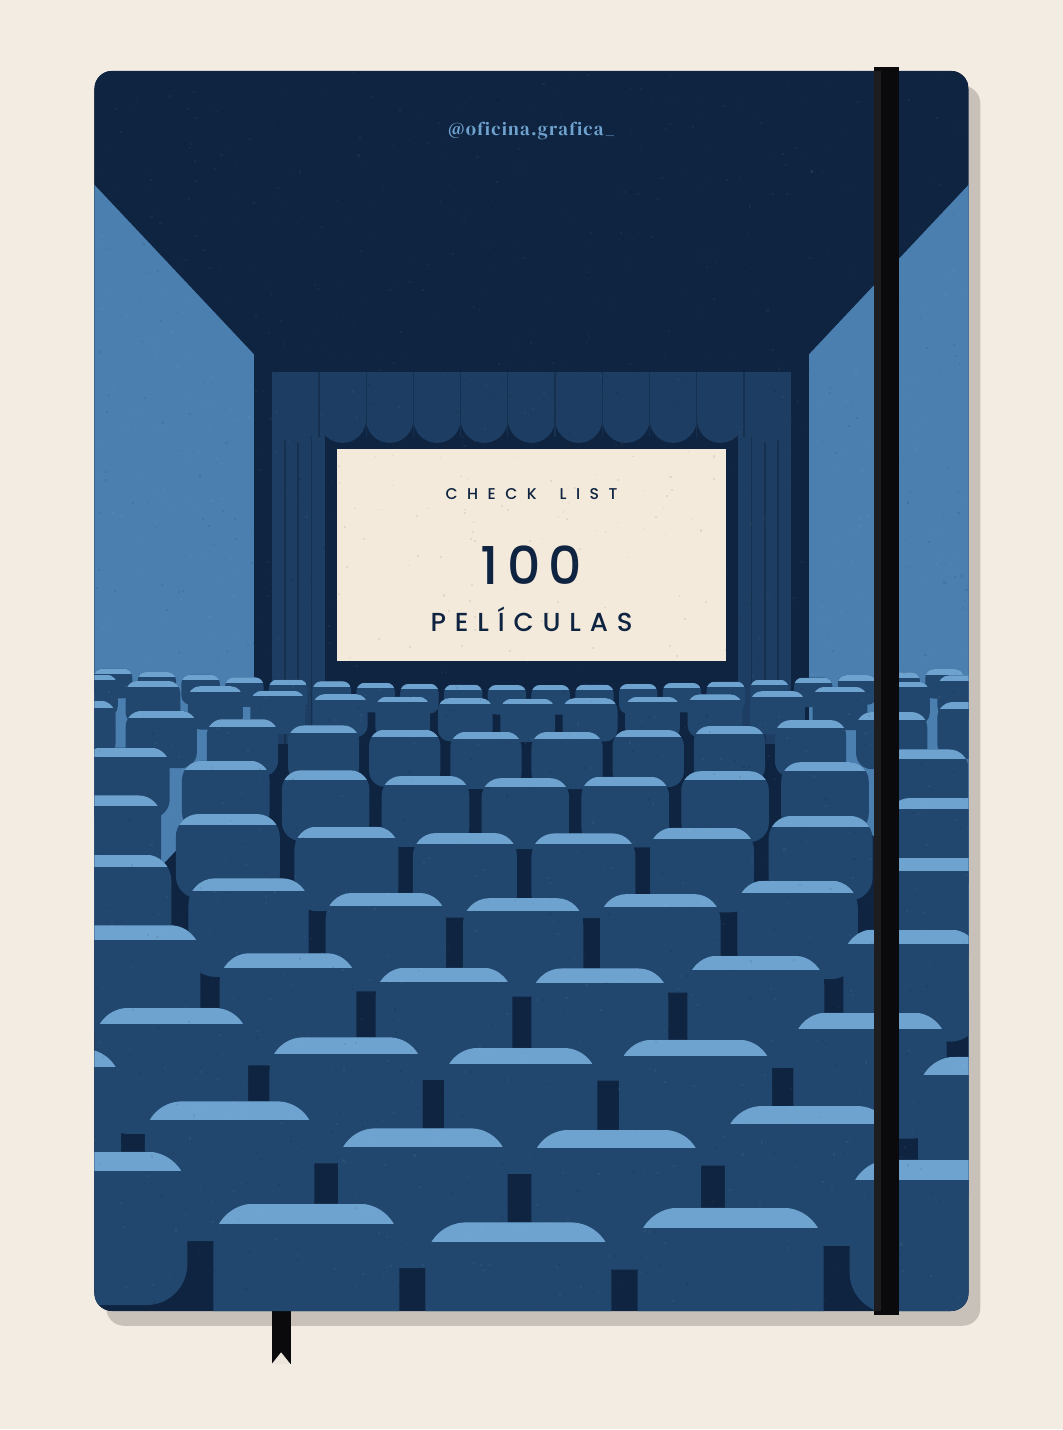
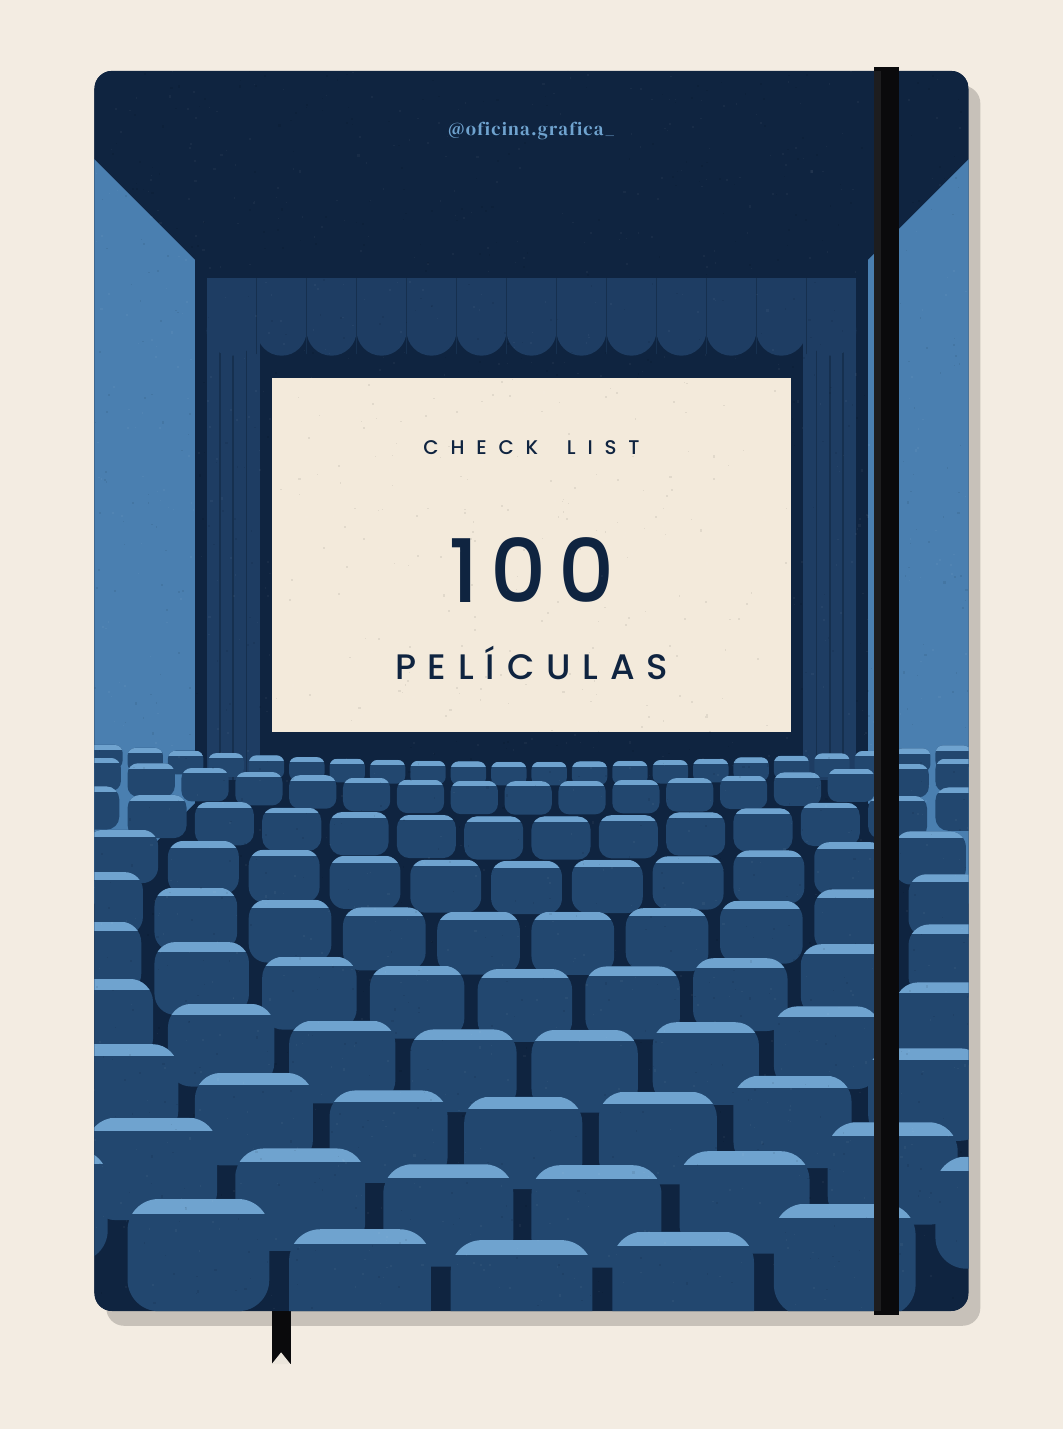
The Watch List: pantalla más grande y butacas más chicas
Claude-Session: https://claude.ai/code/session_01FGxw9aPArw9pn3yxwBbtRR

diff --git a/peliculas/tapa_sala.py b/peliculas/tapa_sala.py
@@ -55,44 +55,44 @@ def texto_espaciado(cv, texto, cx, y, fuente, size, espacio, color):
 
 def sala(cv):
     # paredes laterales en perspectiva
-    poligono(cv, [(-5 * mm, 196 * mm), (27 * mm, 162 * mm), (27 * mm, 92 * mm), (-5 * mm, 58 * mm)], PARED)
-    poligono(cv, [(PW + 5 * mm, 196 * mm), (PW - 27 * mm, 162 * mm), (PW - 27 * mm, 92 * mm),
-                  (PW + 5 * mm, 58 * mm)], PARED)
+    poligono(cv, [(-5 * mm, 200 * mm), (17 * mm, 178 * mm), (17 * mm, 86 * mm), (-5 * mm, 64 * mm)], PARED)
+    poligono(cv, [(PW + 5 * mm, 200 * mm), (PW - 17 * mm, 178 * mm), (PW - 17 * mm, 86 * mm),
+                  (PW + 5 * mm, 64 * mm)], PARED)
     # telones a los costados de la pantalla, con pliegues
-    for x0 in (30 * mm, PW - 39 * mm):
+    for x0 in (19 * mm, PW - 28 * mm):
         cv.setFillColor(TELON)
-        cv.rect(x0, 96 * mm, 9 * mm, 60 * mm, stroke=0, fill=1)
+        cv.rect(x0, 90 * mm, 9 * mm, 82 * mm, stroke=0, fill=1)
         cv.setStrokeColor(TELON_PLIEGUE)
         cv.setLineWidth(0.8)
         for k in range(1, 4):
-            cv.line(x0 + k * 2.25 * mm, 96 * mm, x0 + k * 2.25 * mm, 156 * mm)
+            cv.line(x0 + k * 2.25 * mm, 90 * mm, x0 + k * 2.25 * mm, 172 * mm)
     # bambalina con ondas
     cv.setFillColor(TELON)
-    cv.rect(30 * mm, 151 * mm, PW - 60 * mm, 8 * mm, stroke=0, fill=1)
-    n = 11
-    paso = (PW - 60 * mm) / n
+    cv.rect(19 * mm, 166 * mm, PW - 38 * mm, 9 * mm, stroke=0, fill=1)
+    n = 13
+    paso = (PW - 38 * mm) / n
     for i in range(n):
-        cv.circle(30 * mm + paso * (i + 0.5), 151 * mm, paso / 2, stroke=0, fill=1)
+        cv.circle(19 * mm + paso * (i + 0.5), 166 * mm, paso / 2, stroke=0, fill=1)
     cv.setStrokeColor(TELON_PLIEGUE)
     cv.setLineWidth(0.6)
     for i in range(1, n):
-        cv.line(30 * mm + paso * i, 148 * mm, 30 * mm + paso * i, 159 * mm)
+        cv.line(19 * mm + paso * i, 162 * mm, 19 * mm + paso * i, 175 * mm)
     # pantalla
-    sx, sy, sw, sh = 41 * mm, 110 * mm, PW - 82 * mm, 36 * mm
+    sx, sy, sw, sh = 30 * mm, 98 * mm, PW - 60 * mm, 60 * mm
     cv.setFillColor(PANTALLA)
     cv.rect(sx, sy, sw, sh, stroke=0, fill=1)
-    texto_espaciado(cv, "CHECK LIST", CX, sy + sh - 8.5 * mm, "PopM", 7.5, 1.6 * mm, LETRA)
-    texto_espaciado(cv, "100", CX, sy + sh / 2 - 5 * mm, "PopM", 25, 1.4 * mm, LETRA)
-    texto_espaciado(cv, "PELÍCULAS", CX, sy + 5 * mm, "PopM", 12.5, 1.5 * mm, LETRA)
+    texto_espaciado(cv, "CHECK LIST", CX, sy + sh - 13 * mm, "PopM", 9.5, 2 * mm, LETRA)
+    texto_espaciado(cv, "100", CX, sy + sh / 2 - 8 * mm, "PopM", 42, 2 * mm, LETRA)
+    texto_espaciado(cv, "PELÍCULAS", CX, sy + 9 * mm, "PopM", 17, 2 * mm, LETRA)
 
 
 def butacas(cv):
     filas = 10
     for k in range(filas):
         t = k / (filas - 1)
-        base = 101 * mm - (t ** 1.45) * 112 * mm
-        h = (5 + t * 21) * mm
-        w = (6.5 + t * 25) * mm
+        base = 89 * mm - (t ** 1.35) * 96 * mm
+        h = (4 + t * 15) * mm
+        w = (6 + t * 18) * mm
         sep = w * 0.14
         curva = (3 + t * 9) * mm
         x = CX - (w + sep) * 0.5 * (k % 2) - (w + sep) * 12
